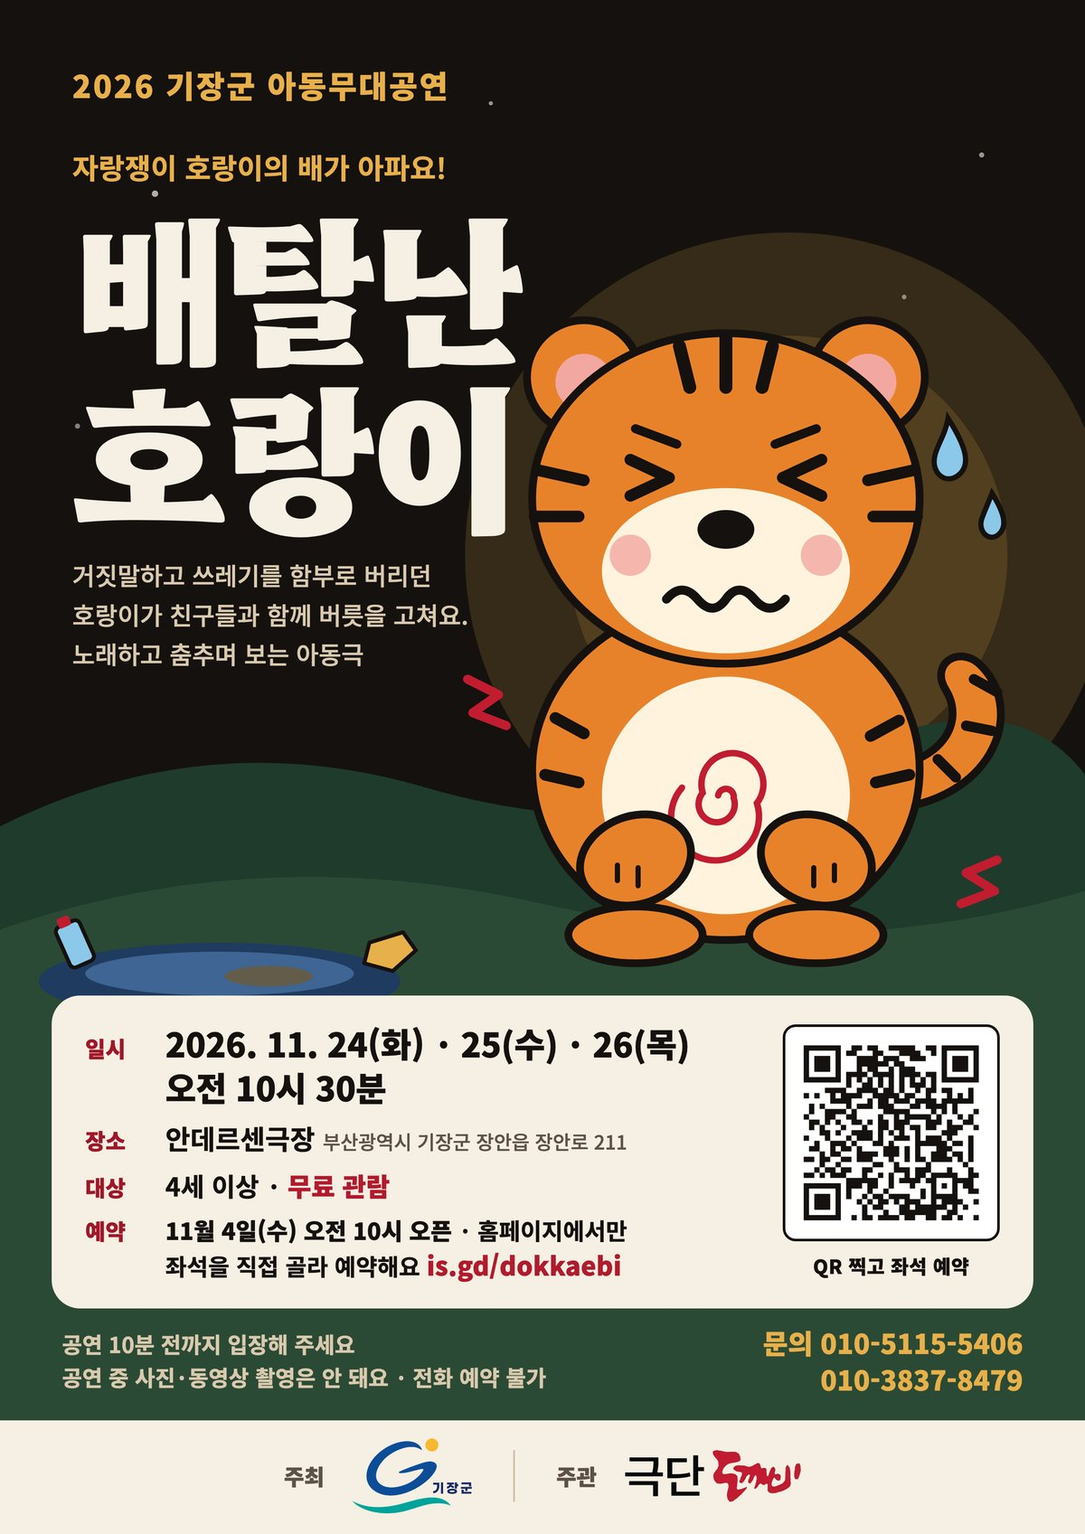
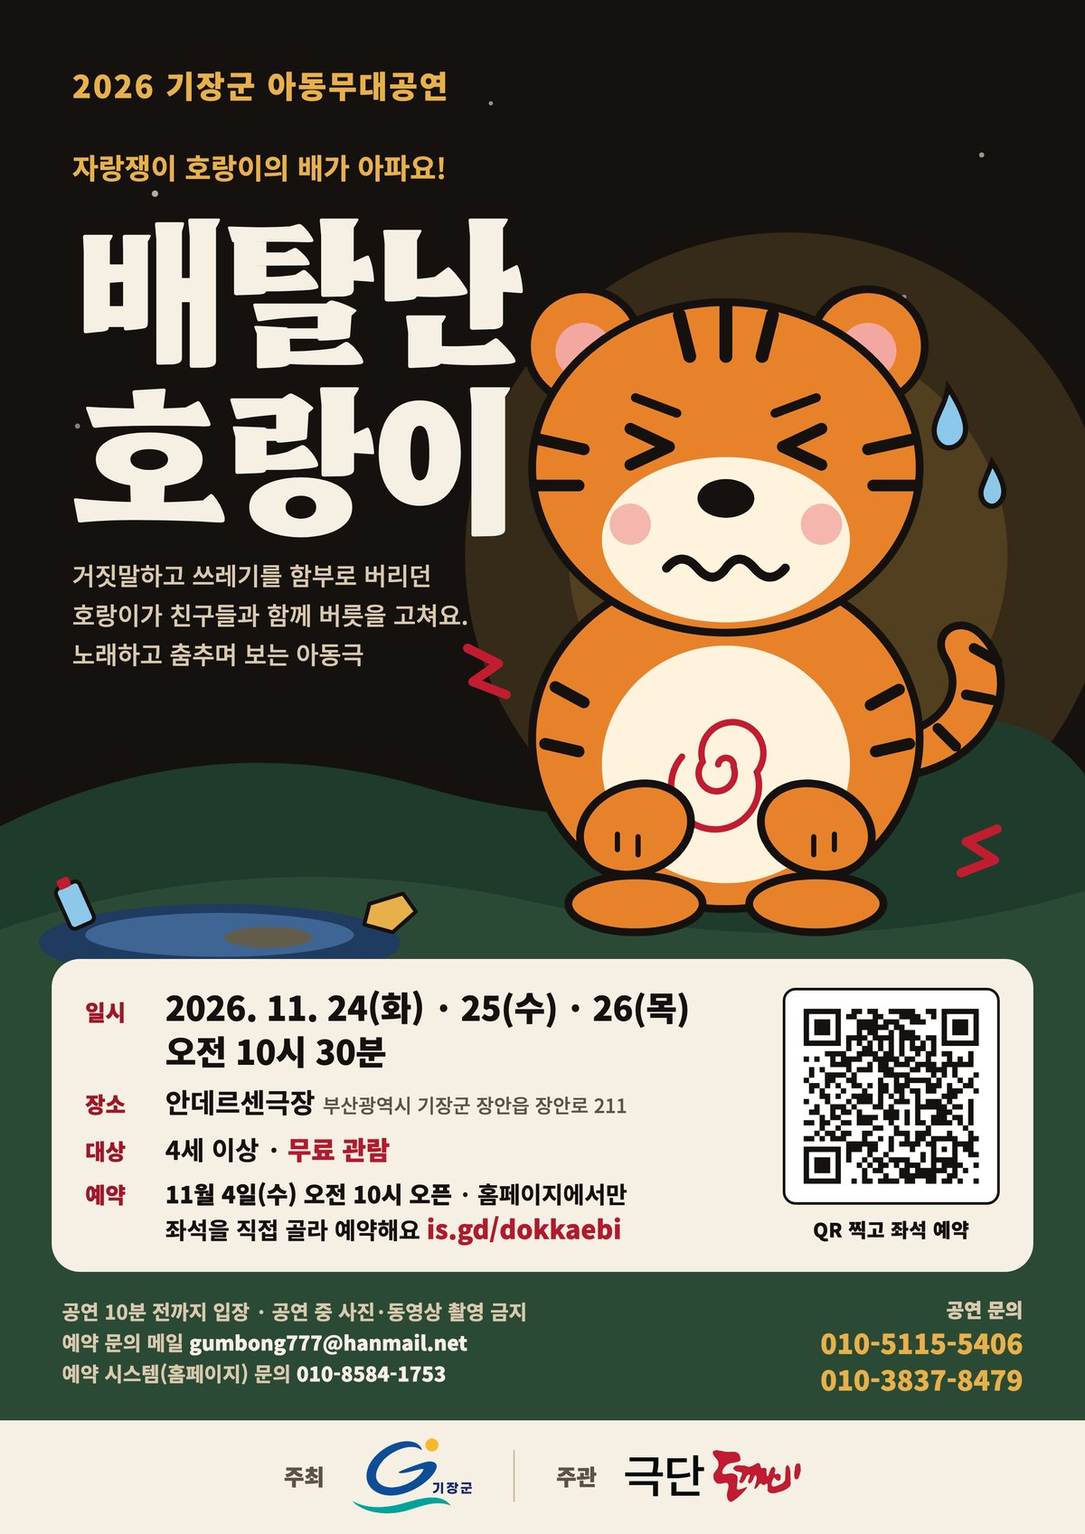
좌석 예약: 예약 문의 메일·예약 시스템 문의 번호 추가, 알림 메일은 홈페이지 예약 관리로
- 공연 문의 010-5115-5406 · 010-3837-8479 / 예약 문의 메일 gumbong777@hanmail.net / 예약 시스템(홈페이지) 문의 010-8584-1753
- 담당자 알림 메일의 관리 링크를 홈페이지 예약 관리(아이디·비밀번호)로 바꿈
- 포스터 아래 문의 줄 갱신

Changed region(s): [[0.0308, 0.1874, 0.9558, 0.9057], [0.8633, 0.5309, 0.925, 0.5934]]

diff --git a/assets/js/reserve-core.js b/assets/js/reserve-core.js
@@ -17,6 +17,8 @@ var RSV = (function () {
     host: '기장군',                    // 주최
     phones: ['010-5115-5406', '010-3837-8479'],   // 안내문의 문의 번호 순서
     phone: '010-5115-5406, 010-3837-8479',
+    email: 'gumbong777@hanmail.net',   // 예약 문의 메일 (안내문의 접수 메일)
+    sysPhone: '010-8584-1753',          // 예약 시스템(홈페이지 오류·로그인) 문의
     audience: '4세 이상 · 무료 관람',
     shows: [
       { id: '2026-11-24', time: '10:30' },
@@ -156,7 +158,8 @@ var RSV = (function () {
   }
   function siteUrl(env) { return str(env.siteUrl || 'https://dokkaebi1.github.io').replace(/\/+$/, ''); }
   function notifyTo(env) { try { return env.notifyEmail ? str(env.notifyEmail()) : ''; } catch (e) { return ''; } }
-  function adminLink(env) { try { return env.adminUrl ? str(env.adminUrl()) : siteUrl(env) + '/reserve/admin.html'; } catch (e) { return siteUrl(env) + '/reserve/admin.html'; } }
+  function adminLink(env) { return siteUrl(env) + '/reserve/admin.html'; }   // 홈페이지 예약 관리 (아이디·비밀번호)
+  function contactLines() { return ['공연 문의: ' + EVENT.phone + ' · 예약 문의 메일: ' + EVENT.email, '예약 시스템(홈페이지) 문의: ' + EVENT.sysPhone]; }
 
   /* ---------- 좌석 현황 ---------- */
   function occupancy(recs) {
@@ -269,7 +272,7 @@ var RSV = (function () {
     var to = notifyTo(env);
     var lines = (head ? [head, ''] : []).concat(ticketLines(x), ['연락처: ' + x.phone, '이메일: ' + x.email]);
     if (x.note) lines.push('요청사항: ' + x.note);
-    lines.push('', '예약 관리 화면에서 확인하고 승인해 주세요. (극단 도깨비 구글 계정 로그인)', adminLink(env));
+    lines.push('', '홈페이지 예약 관리에서 확인하고 승인해 주세요. (아이디·비밀번호로 로그인)', adminLink(env));
     return send(env, to, subject, lines, x.email ? { replyTo: x.email } : null);
   }
   function mailConfirm(env, x) {
@@ -285,15 +288,15 @@ var RSV = (function () {
     ], x.seats.map(function (s) { return '· ' + seatName(s) + ' — ' + seatWhere(s); }), [
       '',
       '공연 10분 전까지 입장을 마쳐 주세요. 공연 중 사진·동영상 촬영은 안 돼요.',
-      '문의: ' + EVENT.phone
-    ]));
+      ''
+    ], contactLines()));
   }
   function mailReject(env, x, reason) {
     return send(env, x.email, '[' + EVENT.org + '] 좌석 예약 안내 · ' + showLabel(x.show), [
       x.name + '님, 신청하신 좌석 예약을 이번에는 확정하지 못했습니다.', ''
     ].concat(ticketLines(x), reason ? ['', '안내: ' + reason] : [], [
-      '', '다른 좌석이나 회차로 다시 신청하실 수 있습니다.', siteUrl(env) + '/reserve/seats.html', '', '문의: ' + EVENT.phone
-    ]));
+      '', '다른 좌석이나 회차로 다시 신청하실 수 있습니다.', siteUrl(env) + '/reserve/seats.html', ''
+    ], contactLines()));
   }
   function logMail(x, what, err) { x.mailLog = clean((x.mailLog ? x.mailLog + '\n' : '') + what + (err ? ' ✗ ' + err : ' ✓'), 600); }
 
@@ -390,8 +393,8 @@ var RSV = (function () {
     var code = makeCode(env);
     env.cache.put('rsvcode:' + key, JSON.stringify({ code: code, tries: 0 }), 900);
     env.cache.put(rk, String(n + 1), 3600);
-    var err = send(env, to, subject, lines.concat(['', '확인 번호: ' + code, '', '15분 동안 쓸 수 있어요. 직접 요청하지 않았다면 이 메일은 무시해 주세요.', '문의: ' + EVENT.phone]));
-    return err ? fail('mail', '메일을 보내지 못했어요. ' + EVENT.phone + '로 연락 주세요.') : null;
+    var err = send(env, to, subject, lines.concat(['', '확인 번호: ' + code, '', '15분 동안 쓸 수 있어요. 직접 요청하지 않았다면 이 메일은 무시해 주세요.', '예약 시스템(홈페이지) 문의: ' + EVENT.sysPhone]));
+    return err ? fail('mail', '메일을 보내지 못했어요. 예약 시스템 문의 ' + EVENT.sysPhone + '로 연락 주세요.') : null;
   }
   function checkCode(env, key, code) {
     var v = null;
@@ -416,9 +419,9 @@ var RSV = (function () {
       if (!hit) return fail('none', '이 이메일로 신청한 예약이 없어요. 예약할 때 적은 이메일이 다를 수 있어요. 아래 ‘휴대전화 번호로 찾기’를 눌러 보세요.');
     } else if (digits.length >= 9) {
       var fk = 'rsvphfail:' + digits, fails = +(env.cache.get(fk) || 0);
-      if (fails >= 5) return fail('many', '여러 번 찾지 못했어요. ' + EVENT.phone + '로 연락 주세요.');
+      if (fails >= 5) return fail('many', '여러 번 찾지 못했어요. 예약 시스템 문의 ' + EVENT.sysPhone + '로 연락 주세요.');
       hit = recs.filter(function (x) { return x.phone.replace(/\D/g, '') === digits; })[0];
-      if (!hit) { env.cache.put(fk, String(fails + 1), 3600); return fail('none', '이 번호로 신청한 예약이 없어요. 번호를 확인하시거나 ' + EVENT.phone + '로 연락 주세요.'); }
+      if (!hit) { env.cache.put(fk, String(fails + 1), 3600); return fail('none', '이 번호로 신청한 예약이 없어요. 번호를 확인하시거나 예약 시스템 문의 ' + EVENT.sysPhone + '로 연락 주세요.'); }
       email = hit.email;
       env.cache.put('rsvcodeph:' + digits, email, 900);
     } else return fail('invalid', '예약할 때 적은 이메일이나 휴대전화 번호를 넣어 주세요.');
@@ -525,7 +528,7 @@ var RSV = (function () {
     var bad = sendCode(env, 'admin', to, '[' + EVENT.org + '] 좌석 예약 관리 비밀번호 찾기 확인 번호', [
       '좌석 예약 관리 화면의 비밀번호를 새로 정하려면 아래 확인 번호를 넣어 주세요.',
       '아이디: ' + str((env.adminCred() || {}).id)]);
-    return bad || { ok: true, sentTo: maskEmail(to) };
+    return bad || { ok: true, sentTo: to.split(',').map(maskEmail).join(', ') };
   }
   function adminReset(req, env) {
     var pw = str(req.password);

diff --git a/reserve/index.html b/reserve/index.html
@@ -25,7 +25,7 @@
 <link rel="stylesheet" href="https://fonts.googleapis.com/css2?family=Hahmlet:wght@600..900&display=swap">
 <link rel="preconnect" href="https://cdn.jsdelivr.net" crossorigin>
 <link rel="stylesheet" href="https://cdn.jsdelivr.net/npm/pretendard@1.3.9/dist/web/variable/pretendardvariable-dynamic-subset.min.css">
-<link rel="stylesheet" href="../assets/css/reserve.css?v=1792848173">
+<link rel="stylesheet" href="../assets/css/reserve.css?v=1792850153">
 <meta name="dokkaebi-api" content="https://script.google.com/macros/s/AKfycbw1ukn5kiuJ3rC1IUlTakt7768htxE08COYk8GMvpOcfUWcSVZKUTsxLftt-JXtx4I/exec">
 <script type="application/ld+json">{"@context":"https://schema.org","@type":"TheaterEvent","name":"배탈난 호랑이 (2026 기장군 아동무대공연)","description":"자랑쟁이 호랑이가 거짓말하고 쓰레기를 함부로 버리는 버릇을 고치는 이야기","sponsor":{"@type":"GovernmentOrganization","name":"부산광역시 기장군"},"organizer":{"@type":"PerformingGroup","name":"극단 도깨비","telephone":"010-5115-5406","url":"https://dokkaebi1.github.io/"},"location":{"@type":"PerformingArtsTheater","name":"안데르센극장","address":{"@type":"PostalAddress","streetAddress":"장안읍 장안로 211","addressLocality":"기장군","addressRegion":"부산광역시","addressCountry":"KR"}},"startDate":"2026-11-24T10:30:00+09:00","endDate":"2026-11-26T11:30:00+09:00","eventAttendanceMode":"https://schema.org/OfflineEventAttendanceMode","eventStatus":"https://schema.org/EventScheduled","url":"https://dokkaebi1.github.io/reserve/"}</script>
 </head>
@@ -60,7 +60,7 @@
           <div><dt>주최</dt><dd>기장군<small>주관 극단 도깨비</small></dd></div>
           <div><dt>장르</dt><dd>아동극 · 생활습관 교육극</dd></div>
           <div><dt>좌석</dt><dd>242석 지정석<small>좌석을 직접 골라 예약 · 휠체어석 3석</small></dd></div>
-          <div><dt>문의</dt><dd><a href="tel:01051155406">010-5115-5406</a> · <a href="tel:01038378479">010-3837-8479</a><small>극단 도깨비 · 문의만 받아요 (예약은 홈페이지에서)</small></dd></div>
+          <div><dt>문의</dt><dd><a href="tel:01051155406">010-5115-5406</a> · <a href="tel:01038378479">010-3837-8479</a><small>예약 문의 메일 <a href="mailto:gumbong777@hanmail.net">gumbong777@hanmail.net</a><br>예약 시스템(홈페이지 오류·로그인) 문의 <a href="tel:01085841753">010-8584-1753</a><br>문의만 받아요 · 예약은 홈페이지에서</small></dd></div>
         </dl>
         <div class="pf-cta">
           <a class="rv-btn rv-btn-red pf-go" href="guide.html">예약 방법 먼저 보기 →</a>
@@ -172,10 +172,10 @@
 </div>
 
 <footer class="rv-footer"><div class="rv-wrap">
-  <b>극단 도깨비</b> · 부산광역시 · 공연 문의 <a href="tel:01051155406">010-5115-5406</a> · <a href="tel:01038378479">010-3837-8479</a><br>
+  <b>극단 도깨비</b> · 부산광역시 · 공연 문의 <a href="tel:01051155406">010-5115-5406</a> · <a href="tel:01038378479">010-3837-8479</a> · 예약 문의 메일 <a href="mailto:gumbong777@hanmail.net">gumbong777@hanmail.net</a> · 예약 시스템 문의 <a href="tel:01085841753">010-8584-1753</a><br>
   <a href="admin.html">예약 관리(관리자)</a> · <a href="../privacy.html">개인정보 처리방침</a> · <a href="../index.html">홈페이지</a> · © 2026 극단 도깨비
 </div></footer>
-<script src="../assets/js/reserve-core.js?v=1792848173"></script>
-<script src="../assets/js/reserve-ui.js?v=1792848173"></script>
+<script src="../assets/js/reserve-core.js?v=1792850153"></script>
+<script src="../assets/js/reserve-ui.js?v=1792850153"></script>
 </body>
 </html>

diff --git a/reserve/guide.html b/reserve/guide.html
@@ -25,7 +25,7 @@
 <link rel="stylesheet" href="https://fonts.googleapis.com/css2?family=Hahmlet:wght@600..900&display=swap">
 <link rel="preconnect" href="https://cdn.jsdelivr.net" crossorigin>
 <link rel="stylesheet" href="https://cdn.jsdelivr.net/npm/pretendard@1.3.9/dist/web/variable/pretendardvariable-dynamic-subset.min.css">
-<link rel="stylesheet" href="../assets/css/reserve.css?v=1792848173">
+<link rel="stylesheet" href="../assets/css/reserve.css?v=1792850153">
 <meta name="dokkaebi-api" content="https://script.google.com/macros/s/AKfycbw1ukn5kiuJ3rC1IUlTakt7768htxE08COYk8GMvpOcfUWcSVZKUTsxLftt-JXtx4I/exec">
 </head>
 <body class="rv-body">
@@ -104,7 +104,8 @@
   <section class="rv-wrap rv-sec gd-faq" aria-labelledby="gd-faq">
     <h2 class="rv-h2" id="gd-faq">자주 묻는 질문</h2>
     <dl>
-      <div><dt>전화로 예약할 수 있나요?</dt><dd>아니요. <b>예약은 홈페이지에서만</b> 받아요. 궁금한 점만 010-5115-5406, 010-3837-8479로 문의해 주세요.</dd></div>
+      <div><dt>전화로 예약할 수 있나요?</dt><dd>아니요. <b>예약은 홈페이지에서만</b> 받아요. 궁금한 점은 공연 문의 010-5115-5406, 010-3837-8479 또는 예약 문의 메일 <a href="mailto:gumbong777@hanmail.net">gumbong777@hanmail.net</a>로 물어봐 주세요.</dd></div>
+      <div><dt>홈페이지가 안 열리거나 로그인·신청이 안 돼요.</dt><dd>새로 고침을 해 보시고, 그래도 안 되면 <b>예약 시스템 문의 <a href="tel:01085841753">010-8584-1753</a></b>로 연락해 주세요.</dd></div>
       <div><dt>예약은 언제 열리나요?</dt><dd><b>11월 4일(수) 오전 10시</b>이에요. 그 전에는 좌석을 미리 볼 수만 있어요.</dd></div>
       <div><dt>한 번에 몇 명까지 되나요?</dt><dd>최대 100명이에요. 같은 회차에 같은 연락처·이메일로는 한 번만 신청할 수 있으니 인원을 모아서 한 번에 신청해 주세요.</dd></div>
       <div><dt>좌석이 ‘다른 분이 고르는 중’이에요.</dt><dd>다른 분이 신청서를 쓰고 있어요. 5분 안에 신청하지 않으면 다시 풀려요.</dd></div>
@@ -116,10 +117,10 @@
 </main>
 
 <footer class="rv-footer"><div class="rv-wrap">
-  <b>극단 도깨비</b> · 부산광역시 · 공연 문의 <a href="tel:01051155406">010-5115-5406</a> · <a href="tel:01038378479">010-3837-8479</a><br>
+  <b>극단 도깨비</b> · 부산광역시 · 공연 문의 <a href="tel:01051155406">010-5115-5406</a> · <a href="tel:01038378479">010-3837-8479</a> · 예약 문의 메일 <a href="mailto:gumbong777@hanmail.net">gumbong777@hanmail.net</a> · 예약 시스템 문의 <a href="tel:01085841753">010-8584-1753</a><br>
   <a href="admin.html">예약 관리(관리자)</a> · <a href="../privacy.html">개인정보 처리방침</a> · <a href="../index.html">홈페이지</a> · © 2026 극단 도깨비
 </div></footer>
-<script src="../assets/js/reserve-core.js?v=1792848173"></script>
-<script src="../assets/js/reserve-ui.js?v=1792848173"></script>
+<script src="../assets/js/reserve-core.js?v=1792850153"></script>
+<script src="../assets/js/reserve-ui.js?v=1792850153"></script>
 </body>
 </html>

diff --git a/reserve/seats.html b/reserve/seats.html
@@ -25,7 +25,7 @@
 <link rel="stylesheet" href="https://fonts.googleapis.com/css2?family=Hahmlet:wght@600..900&display=swap">
 <link rel="preconnect" href="https://cdn.jsdelivr.net" crossorigin>
 <link rel="stylesheet" href="https://cdn.jsdelivr.net/npm/pretendard@1.3.9/dist/web/variable/pretendardvariable-dynamic-subset.min.css">
-<link rel="stylesheet" href="../assets/css/reserve.css?v=1792848173">
+<link rel="stylesheet" href="../assets/css/reserve.css?v=1792850153">
 <meta name="dokkaebi-api" content="https://script.google.com/macros/s/AKfycbw1ukn5kiuJ3rC1IUlTakt7768htxE08COYk8GMvpOcfUWcSVZKUTsxLftt-JXtx4I/exec">
 </head>
 <body class="rv-body">
@@ -59,7 +59,7 @@
       <li>같은 회차에 같은 연락처·이메일로는 한 번만 신청할 수 있어요. 인원은 한 번에 모아서 신청해 주세요.</li>
       <li>공연 당일 극장에 오시면 <a href="my.html">내 예약 확인</a>에서 ‘도착했어요’를 눌러 주세요.</li>
     </ul>
-    <p class="rv-note">처음이시면 <a href="guide.html"><b>예약 방법</b></a>을 그림과 함께 먼저 봐 주세요. 궁금한 점 문의 <a href="tel:01051155406">010-5115-5406</a> · <a href="tel:01038378479">010-3837-8479</a> (문의만 받아요)</p>
+    <p class="rv-note">처음이시면 <a href="guide.html"><b>예약 방법</b></a>을 그림과 함께 먼저 봐 주세요. 예약은 홈페이지에서만 받고, 전화·메일은 문의만 받아요.<br>공연 문의 <a href="tel:01051155406">010-5115-5406</a> · <a href="tel:01038378479">010-3837-8479</a> · 예약 문의 메일 <a href="mailto:gumbong777@hanmail.net">gumbong777@hanmail.net</a> · 예약 시스템 문의 <a href="tel:01085841753">010-8584-1753</a></p>
   </section>
 
   <section class="rv-wrap rv-sec" id="seats" aria-labelledby="rv-s1">
@@ -139,11 +139,11 @@
 </dialog>
 
 <footer class="rv-footer"><div class="rv-wrap">
-  <b>극단 도깨비</b> · 부산광역시 · 공연 문의 <a href="tel:01051155406">010-5115-5406</a> · <a href="tel:01038378479">010-3837-8479</a><br>
+  <b>극단 도깨비</b> · 부산광역시 · 공연 문의 <a href="tel:01051155406">010-5115-5406</a> · <a href="tel:01038378479">010-3837-8479</a> · 예약 문의 메일 <a href="mailto:gumbong777@hanmail.net">gumbong777@hanmail.net</a> · 예약 시스템 문의 <a href="tel:01085841753">010-8584-1753</a><br>
   <a href="admin.html">예약 관리(관리자)</a> · <a href="../privacy.html">개인정보 처리방침</a> · <a href="../index.html">홈페이지</a> · © 2026 극단 도깨비
 </div></footer>
-<script src="../assets/js/reserve-core.js?v=1792848173"></script>
-<script src="../assets/js/reserve-ui.js?v=1792848173"></script>
-<script src="../assets/js/reserve.js?v=1792848173"></script>
+<script src="../assets/js/reserve-core.js?v=1792850153"></script>
+<script src="../assets/js/reserve-ui.js?v=1792850153"></script>
+<script src="../assets/js/reserve.js?v=1792850153"></script>
 </body>
 </html>

diff --git a/reserve/admin.html b/reserve/admin.html
@@ -25,7 +25,7 @@
 <link rel="stylesheet" href="https://fonts.googleapis.com/css2?family=Hahmlet:wght@600..900&display=swap">
 <link rel="preconnect" href="https://cdn.jsdelivr.net" crossorigin>
 <link rel="stylesheet" href="https://cdn.jsdelivr.net/npm/pretendard@1.3.9/dist/web/variable/pretendardvariable-dynamic-subset.min.css">
-<link rel="stylesheet" href="../assets/css/reserve.css?v=1792848173">
+<link rel="stylesheet" href="../assets/css/reserve.css?v=1792850153">
 <meta name="dokkaebi-api" content="https://script.google.com/macros/s/AKfycbw1ukn5kiuJ3rC1IUlTakt7768htxE08COYk8GMvpOcfUWcSVZKUTsxLftt-JXtx4I/exec">
 <meta name="dokkaebi-rsv-admin" content="https://script.google.com/macros/s/AKfycbxntrHTCuYDwDsCEVNxN52vx72Vpj6Tsw_rMx494ZZPAl_u4_5FJa8EfrtKE-mWxvTY/exec?page=reserve">
 <meta name="referrer" content="no-referrer">
@@ -42,11 +42,11 @@
 </main>
 
 <footer class="rv-footer"><div class="rv-wrap">
-  <b>극단 도깨비</b> · 부산광역시 · 공연 문의 <a href="tel:01051155406">010-5115-5406</a> · <a href="tel:01038378479">010-3837-8479</a><br>
+  <b>극단 도깨비</b> · 부산광역시 · 공연 문의 <a href="tel:01051155406">010-5115-5406</a> · <a href="tel:01038378479">010-3837-8479</a> · 예약 문의 메일 <a href="mailto:gumbong777@hanmail.net">gumbong777@hanmail.net</a> · 예약 시스템 문의 <a href="tel:01085841753">010-8584-1753</a><br>
   <a href="admin.html">예약 관리(관리자)</a> · <a href="../privacy.html">개인정보 처리방침</a> · <a href="../index.html">홈페이지</a> · © 2026 극단 도깨비
 </div></footer>
-<script src="../assets/js/reserve-core.js?v=1792848173"></script>
-<script src="../assets/js/reserve-ui.js?v=1792848173"></script>
-<script src="../assets/js/reserve-admin.js?v=1792848173"></script>
+<script src="../assets/js/reserve-core.js?v=1792850153"></script>
+<script src="../assets/js/reserve-ui.js?v=1792850153"></script>
+<script src="../assets/js/reserve-admin.js?v=1792850153"></script>
 </body>
 </html>

diff --git a/reserve/my.html b/reserve/my.html
@@ -25,7 +25,7 @@
 <link rel="stylesheet" href="https://fonts.googleapis.com/css2?family=Hahmlet:wght@600..900&display=swap">
 <link rel="preconnect" href="https://cdn.jsdelivr.net" crossorigin>
 <link rel="stylesheet" href="https://cdn.jsdelivr.net/npm/pretendard@1.3.9/dist/web/variable/pretendardvariable-dynamic-subset.min.css">
-<link rel="stylesheet" href="../assets/css/reserve.css?v=1792848173">
+<link rel="stylesheet" href="../assets/css/reserve.css?v=1792850153">
 <meta name="dokkaebi-api" content="https://script.google.com/macros/s/AKfycbw1ukn5kiuJ3rC1IUlTakt7768htxE08COYk8GMvpOcfUWcSVZKUTsxLftt-JXtx4I/exec">
 </head>
 <body class="rv-body">
@@ -40,11 +40,11 @@
 </main>
 
 <footer class="rv-footer"><div class="rv-wrap">
-  <b>극단 도깨비</b> · 부산광역시 · 공연 문의 <a href="tel:01051155406">010-5115-5406</a> · <a href="tel:01038378479">010-3837-8479</a><br>
+  <b>극단 도깨비</b> · 부산광역시 · 공연 문의 <a href="tel:01051155406">010-5115-5406</a> · <a href="tel:01038378479">010-3837-8479</a> · 예약 문의 메일 <a href="mailto:gumbong777@hanmail.net">gumbong777@hanmail.net</a> · 예약 시스템 문의 <a href="tel:01085841753">010-8584-1753</a><br>
   <a href="admin.html">예약 관리(관리자)</a> · <a href="../privacy.html">개인정보 처리방침</a> · <a href="../index.html">홈페이지</a> · © 2026 극단 도깨비
 </div></footer>
-<script src="../assets/js/reserve-core.js?v=1792848173"></script>
-<script src="../assets/js/reserve-ui.js?v=1792848173"></script>
-<script src="../assets/js/reserve-my.js?v=1792848173"></script>
+<script src="../assets/js/reserve-core.js?v=1792850153"></script>
+<script src="../assets/js/reserve-ui.js?v=1792850153"></script>
+<script src="../assets/js/reserve-my.js?v=1792850153"></script>
 </body>
 </html>

diff --git a/assets/js/reserve-my.js b/assets/js/reserve-my.js
@@ -21,7 +21,7 @@
       + '<button class="rv-btn rv-btn-red rv-btn-wide" type="submit">예약 확인하기</button>'
       + '</form>'
       + '<button type="button" class="rv-link" data-forgot>비밀번호를 잊으셨나요? 비밀번호 찾기</button>'
-      + '<p class="rv-sub" style="margin:0;font-size:15px">아직 예약하지 않으셨다면 <a href="seats.html">좌석 예약</a>으로 가세요. 문의 ' + U.telLinks() + '</p>'
+      + '<p class="rv-sub" style="margin:0;font-size:15px">아직 예약하지 않으셨다면 <a href="seats.html">좌석 예약</a>으로 가세요.<br>' + U.contactLinks() + '</p>'
       + '</div>';
     var form = U.$('form', root);
     if (email) form.elements.email.value = email;
@@ -166,7 +166,7 @@
         + (active && today < x.show ? '<button type="button" class="rv-link" data-cancel="' + esc(x.id) + '">예약 취소하기</button>' : '')
         + '</div></article>';
     }).join('');
-    html += '<p class="rv-sub" style="margin-top:22px">문의 ' + U.telLinks() + ' · 공연 10분 전까지 입장해 주세요. 공연 중 사진·동영상 촬영은 안 돼요.</p>';
+    html += '<p class="rv-sub" style="margin-top:22px">' + U.contactLinks() + '<br>공연 10분 전까지 입장해 주세요. 공연 중 사진·동영상 촬영은 안 돼요.</p>';
     root.innerHTML = html;
     list.forEach(function (x) {
       var host = root.querySelector('[data-mini="' + x.id + '"]');

diff --git a/assets/js/reserve-ui.js b/assets/js/reserve-ui.js
@@ -179,6 +179,12 @@
   }
   /* 문의 전화 링크들 (여러 번호) */
   function telLinks() { return R.EVENT.phones.map(function (p) { return '<a href="tel:' + p.replace(/-/g, '') + '">' + p + '</a>'; }).join(' · '); }
+  /* 문의 안내 전체: 공연 문의 전화 · 예약 문의 메일 · 예약 시스템 문의 */
+  function contactLinks() {
+    var E = R.EVENT;
+    return '공연 문의 ' + telLinks() + ' · 예약 문의 메일 <a href="mailto:' + E.email + '">' + E.email + '</a>'
+      + ' · 예약 시스템 문의 <a href="tel:' + E.sysPhone.replace(/-/g, '') + '">' + E.sysPhone + '</a>';
+  }
   function toSet(a) { var o = {}; (a || []).forEach(function (x) { o[x] = true; }); return o; }
 
   function legend(kind) {
@@ -261,5 +267,5 @@
   function headH() { var h = document.querySelector('.rv-header'); if (h) document.documentElement.style.setProperty('--rv-head', h.offsetHeight + 'px'); }
   headH(); window.addEventListener('resize', headH); window.addEventListener('load', headH);
 
-  window.RSVUI = { esc: esc, $: $, el: el, hall: hall, legend: legend, toast: toast, confirm: confirmBox, poll: poll, api: api, fieldErrors: fieldErrors, telLinks: telLinks };
+  window.RSVUI = { esc: esc, $: $, el: el, hall: hall, legend: legend, toast: toast, confirm: confirmBox, poll: poll, api: api, fieldErrors: fieldErrors, telLinks: telLinks, contactLinks: contactLinks };
 })();
